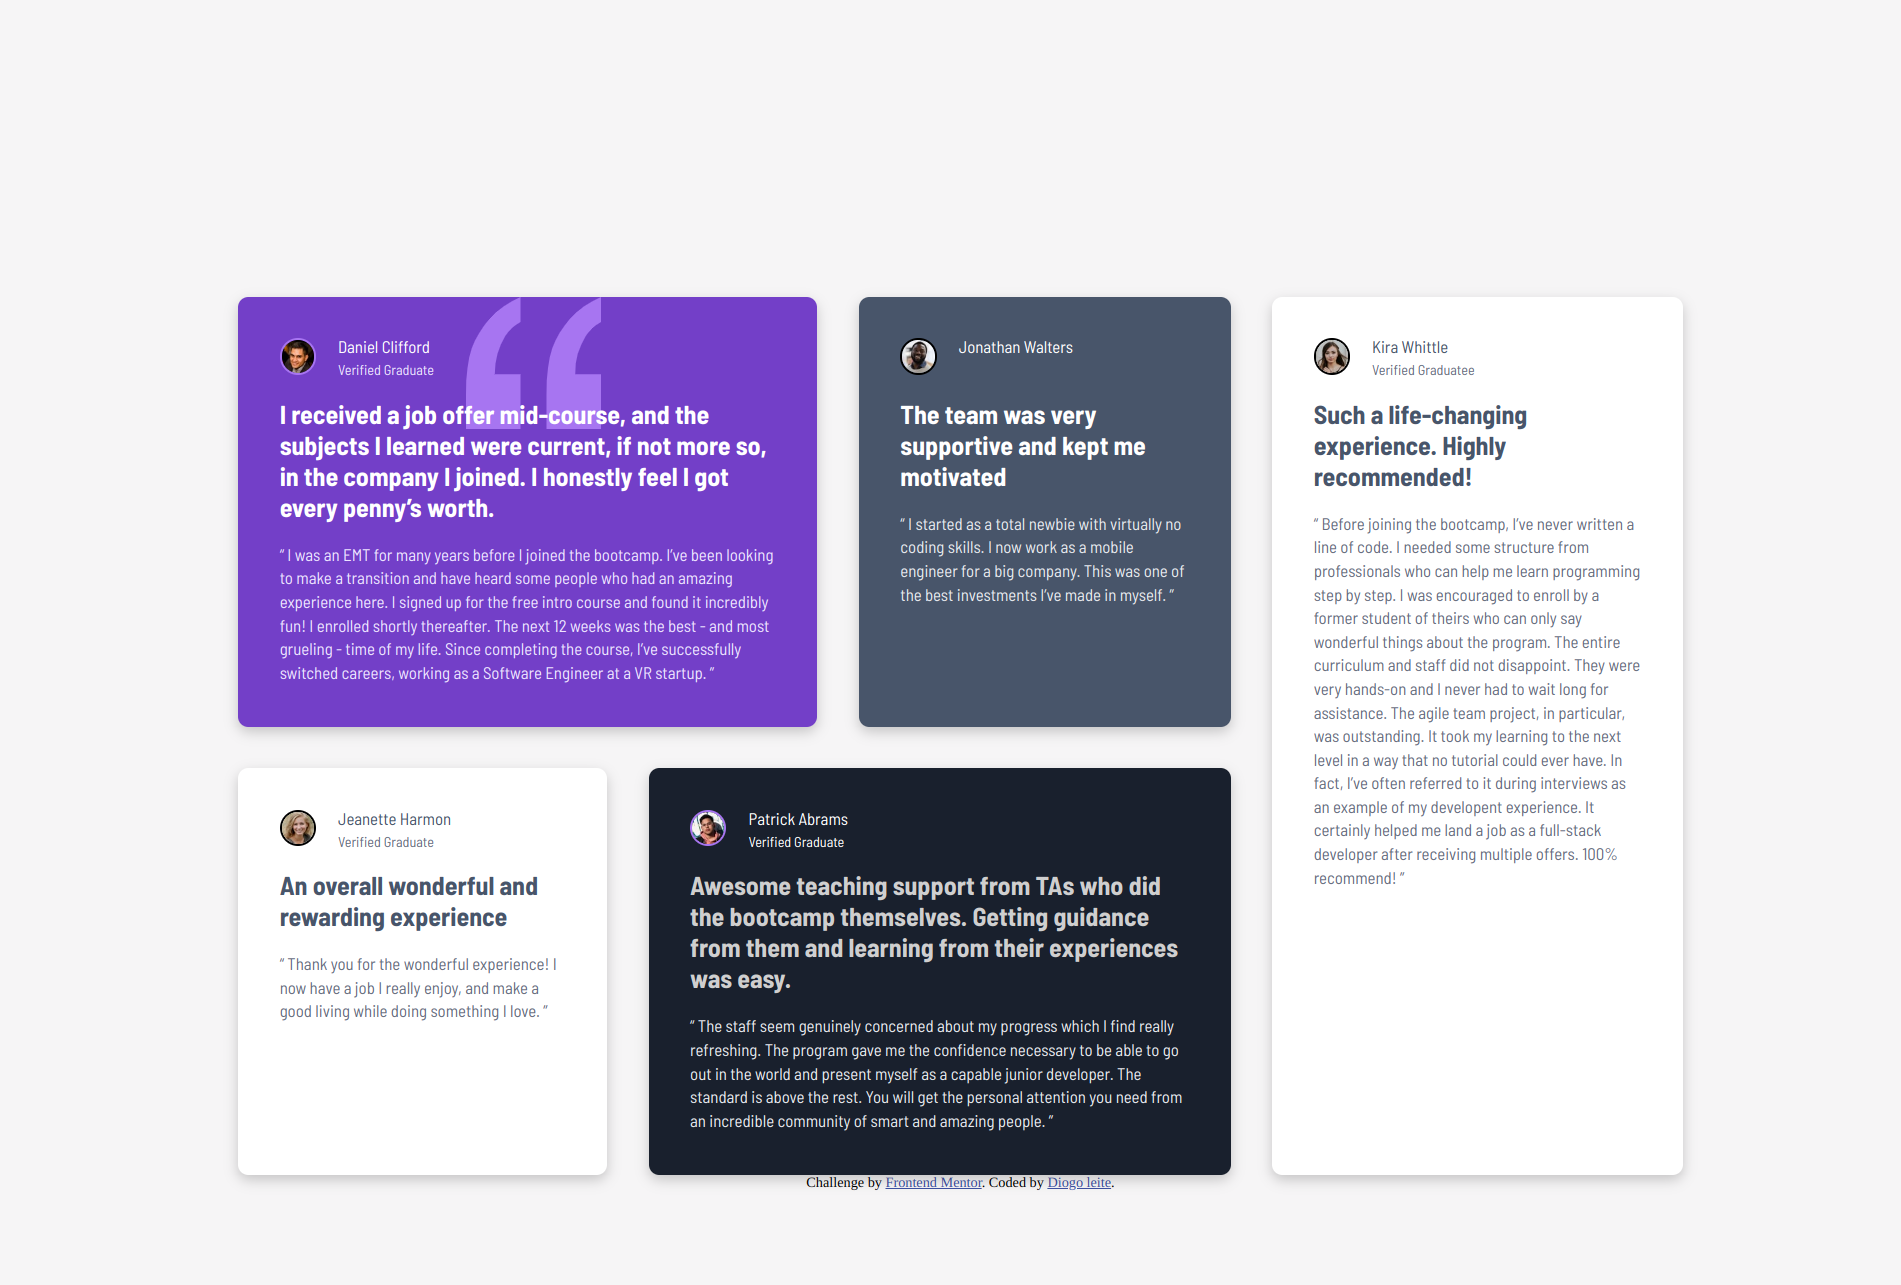
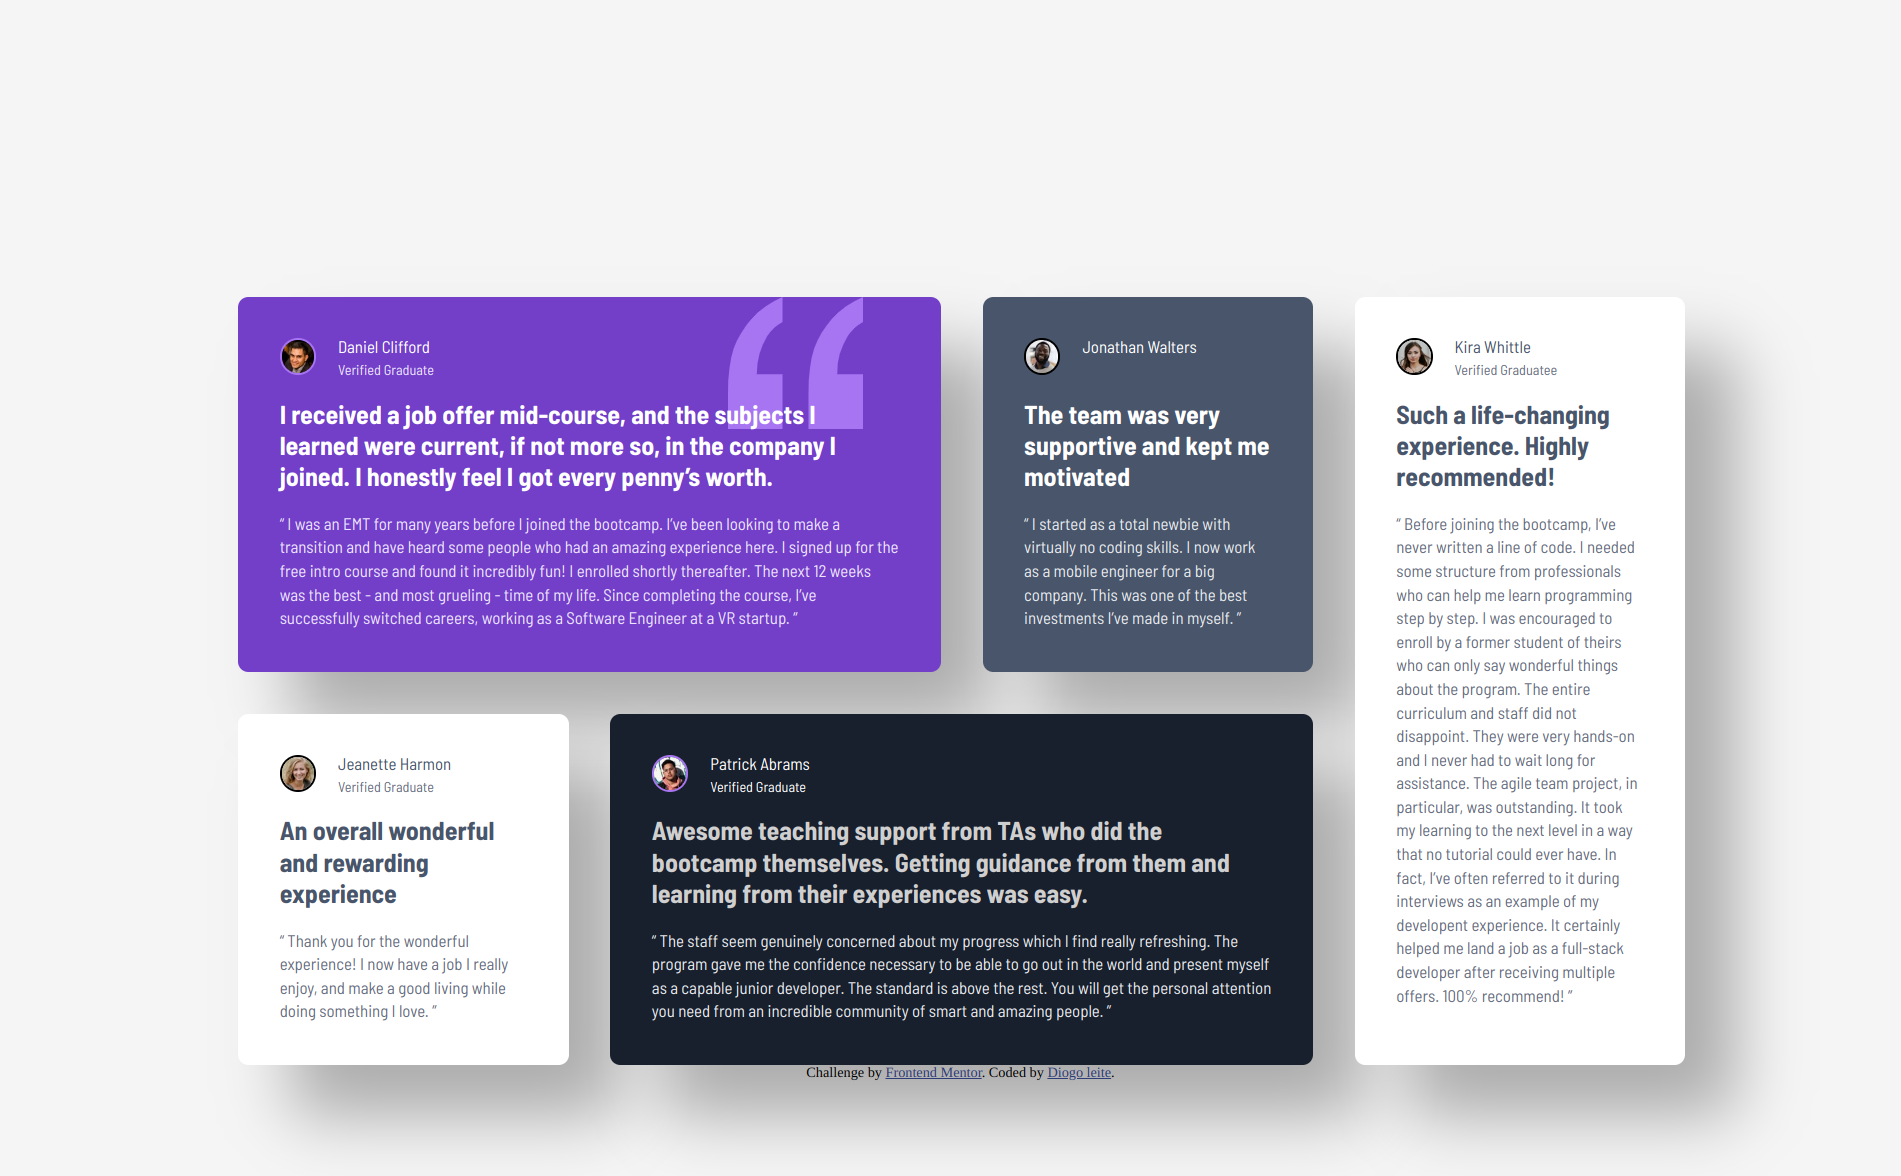
modifications

Changed region(s): [[0.1241, 0.2143, 0.9311, 0.9796]]

diff --git a/styles/styles.scss b/styles/styles.scss
@@ -10,53 +10,57 @@ $color-grey-500: #48556a;
 $color-purple-50: #ede4ff;
 $color-purple-300: #a775f1;
 $color-purple-500: #733fc8;
-$color-bg: #F6F5F6;
+$color-bg: #f6f5f6;
 
 @mixin text-preset-1 {
   font-family: "Barlow Semi Condensed", sans-serif;
   font-size: 1.25rem;
+  font-weight: 600;
   line-height: 120%;
   letter-spacing: 0px;
 }
 @mixin text-preset-2 {
   font-family: "Barlow Semi Condensed", sans-serif;
   font-size: 0.8125rem;
+  font-weight: 500;
   line-height: 110%;
   letter-spacing: 0px;
 }
 @mixin text-preset-3 {
   font-family: "Barlow Semi Condensed", sans-serif;
   font-size: 0.8125rem;
+  font-weight: 500;
   line-height: 140%;
   letter-spacing: 0px;
 }
 @mixin text-preset-4 {
   font-family: "Barlow Semi Condensed", sans-serif;
   font-size: 0.6875rem;
+  font-weight: 500;
   line-height: 110%;
   letter-spacing: 0px;
 }
 
-@mixin card-color($bg, $border, $name, $verified, $title, $quote){
-     background-color: $bg;
+@mixin card-color($bg, $border, $name, $verified, $title, $quote) {
+  background-color: $bg;
 
-    img{
-        border-color: $border;
-    }
+  img {
+    border-color: $border;
+  }
 
-    .name{
-        color: $name;
-    }
-    .name + span{
-        color:$verified;
-    }
+  .name {
+    color: $name;
+  }
+  .name + span {
+    color: $verified;
+  }
 
-    h2{
-        color: $title;
-    }
-    blockquote{
-        color: $quote;
-    }
+  h2 {
+    color: $title;
+  }
+  blockquote {
+    color: $quote;
+  }
 }
 
 * {
@@ -65,7 +69,7 @@ $color-bg: #F6F5F6;
   box-sizing: border-box;
 }
 
-body{
+body {
   padding: 73px 35px;
   background-color: $color-bg;
 }
@@ -74,12 +78,12 @@ ul {
   list-style: none;
 }
 
-.grid{
+.grid {
   display: grid;
   gap: 32px;
 }
 
-main{
+main {
   margin: 0 auto;
   max-width: 1114px;
 }
@@ -91,7 +95,7 @@ main{
   border-radius: 8px;
   position: relative;
 
-  box-shadow: 0px 4px 10px rgba(0,0,0, 0.2);
+  box-shadow: 40px 40px 50px rgba(0, 0, 0, 0.3);
   header {
     display: flex;
     position: relative;
@@ -121,84 +125,114 @@ main{
       }
     }
 
-    h2{
-       @include text-preset-1; 
+    h2 {
+      @include text-preset-1;
     }
   }
 
-  blockquote{
+  blockquote {
     margin-top: 16px;
     @include text-preset-3;
   }
 
-  
-
-  &.purple{
-    @include card-color($color-purple-500, $color-purple-300, $color-white,$color-purple-50,$color-white,$color-purple-50 );
+  &.purple {
+    @include card-color(
+      $color-purple-500,
+      $color-purple-300,
+      $color-white,
+      $color-purple-50,
+      $color-white,
+      $color-purple-50
+    );
   }
-  &.grey{
-    @include card-color($color-grey-500, unset, $color-white, $color-grey-500, $color-white, $color-grey-100 );
+  &.grey {
+    @include card-color(
+      $color-grey-500,
+      transparent,
+      $color-white,
+      $color-grey-100,
+      $color-white,
+      $color-grey-100
+    );
   }
-  &.white{
-    @include card-color($color-white, unset, $color-grey-500, $color-grey-400, $color-grey-500, $color-grey-400 );
+  &.white {
+    @include card-color(
+      $color-white,
+      transparent,
+      $color-grey-500,
+      $color-grey-400,
+      $color-grey-500,
+      $color-grey-400
+    );
   }
-  &.dark{
-    @include card-color($color-dark-blue, $color-purple-300, $color-white, $color-white, $color-grey-200, $color-grey-100 );
+  &.dark {
+    @include card-color(
+      $color-dark-blue,
+      $color-purple-300,
+      $color-white,
+      $color-white,
+      $color-grey-200,
+      $color-grey-100
+    );
   }
 }
 
-
-@media (min-width: 768px){
-  body{
+@media (min-width: 768px) {
+  body {
     padding-top: 83px;
   }
-    .grid{
-      grid-template-areas: 
+  .grid {
+    grid-template-areas:
       "first first"
       "second third"
       "fourth fourth"
       "fifth fifth";
-      
-    }
+  }
 
-    .first{
-      grid-area: first;
-    }
-    .second{
-      grid-area: second;
-    }
-    .third{
-      grid-area: third;
-    }
-    .fourth{
-      grid-area: fourth;
-    }
-    .fifth{
-      grid-area: fifth;
-    }
+  .first {
+    grid-area: first;
+  }
+  .second {
+    grid-area: second;
+  }
+  .third {
+    grid-area: third;
+  }
+  .fourth {
+    grid-area: fourth;
+  }
+  .fifth {
+    grid-area: fifth;
+  }
 
-    .card{
+  .card {
+    &.quote_img::after {
+      content: url("./../images/bg-pattern-quotation.svg");
 
-      &.quote_img::after{
-        content: url("./../images/bg-pattern-quotation.svg");
-
-        position: absolute;
-        top: 0;
-        right: 167px;
-        z-index: 1;
-      }
+      position: absolute;
+      top: 0;
+      right: 167px;
+      z-index: 1;
     }
+  }
 }
 
-@media (min-width: 1440px){
-  body{
+@media (min-width: 1440px) {
+  body {
     padding-top: 229px;
   }
-    .grid{
-      grid-template-areas: 
-      "first first second fifth"
-      "third fourth fourth fifth"
-    
-      
+  .grid {
+
+    grid-template-columns: repeat(4, 255px);
+    grid-template-areas:
+      "first first second fifth" 
+      "third fourth fourth fifth";
+  }
+
+  .card {
+   
+    &.quote_img::after {
+      right: 60px;
     }
+  }
 }

diff --git a/styles/styles.css b/styles/styles.css
@@ -8,7 +8,7 @@
 
 body {
   padding: 73px 35px;
-  background-color: #F6F5F6;
+  background-color: #f6f5f6;
 }
 
 ul {
@@ -32,8 +32,8 @@ main {
   height: 100%;
   border-radius: 8px;
   position: relative;
-  -webkit-box-shadow: 0px 4px 10px rgba(0, 0, 0, 0.2);
-          box-shadow: 0px 4px 10px rgba(0, 0, 0, 0.2);
+  -webkit-box-shadow: 40px 40px 50px rgba(0, 0, 0, 0.3);
+          box-shadow: 40px 40px 50px rgba(0, 0, 0, 0.3);
 }
 
 .card header {
@@ -77,6 +77,7 @@ main {
 .card header > div div .name {
   font-family: "Barlow Semi Condensed", sans-serif;
   font-size: 0.8125rem;
+  font-weight: 500;
   line-height: 110%;
   letter-spacing: 0px;
 }
@@ -84,6 +85,7 @@ main {
 .card header > div div > span:last-child {
   font-family: "Barlow Semi Condensed", sans-serif;
   font-size: 0.6875rem;
+  font-weight: 500;
   line-height: 110%;
   letter-spacing: 0px;
 }
@@ -91,6 +93,7 @@ main {
 .card header h2 {
   font-family: "Barlow Semi Condensed", sans-serif;
   font-size: 1.25rem;
+  font-weight: 600;
   line-height: 120%;
   letter-spacing: 0px;
 }
@@ -99,6 +102,7 @@ main {
   margin-top: 16px;
   font-family: "Barlow Semi Condensed", sans-serif;
   font-size: 0.8125rem;
+  font-weight: 500;
   line-height: 140%;
   letter-spacing: 0px;
 }
@@ -132,7 +136,7 @@ main {
 }
 
 .card.grey img {
-  border-color: unset;
+  border-color: transparent;
 }
 
 .card.grey .name {
@@ -140,7 +144,7 @@ main {
 }
 
 .card.grey .name + span {
-  color: #48556a;
+  color: #e7eaee;
 }
 
 .card.grey h2 {
@@ -156,7 +160,7 @@ main {
 }
 
 .card.white img {
-  border-color: unset;
+  border-color: transparent;
 }
 
 .card.white .name {
@@ -248,7 +252,12 @@ main {
     padding-top: 229px;
   }
   .grid {
-        grid-template-areas: "first first second fifth" "third fourth fourth fifth";
+    -ms-grid-columns: (255px)[4];
+        grid-template-columns: repeat(4, 255px);
+        grid-template-areas: "first first second fifth"  "third fourth fourth fifth";
+  }
+  .card.quote_img::after {
+    right: 60px;
   }
 }
 /*# sourceMappingURL=styles.css.map */
